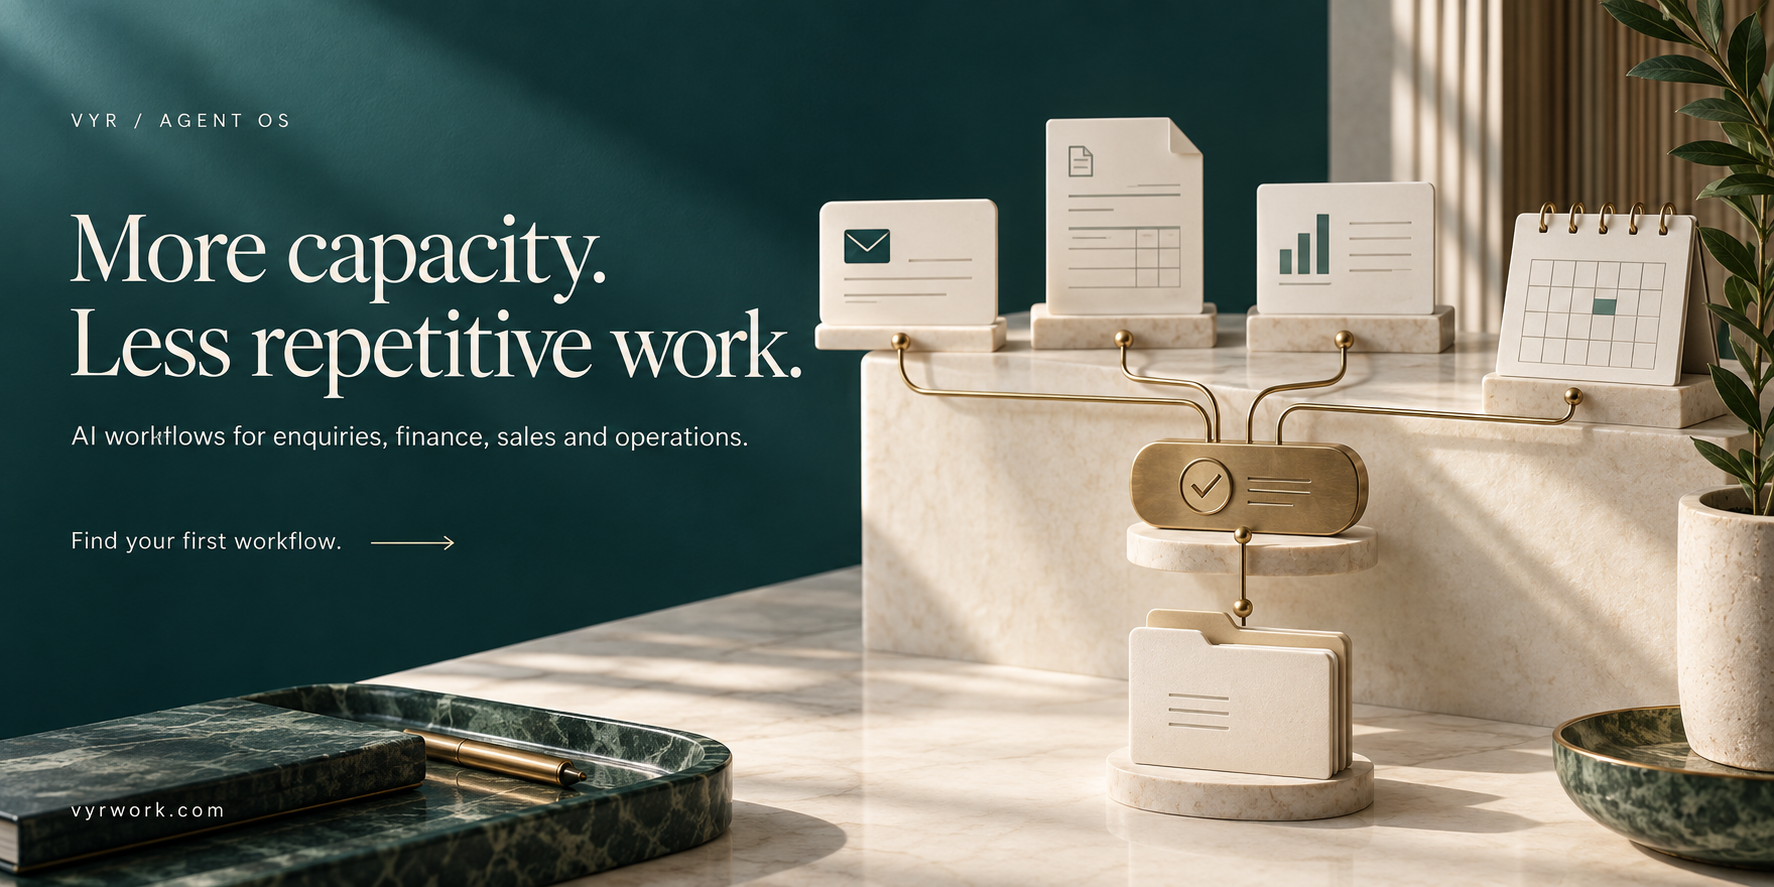
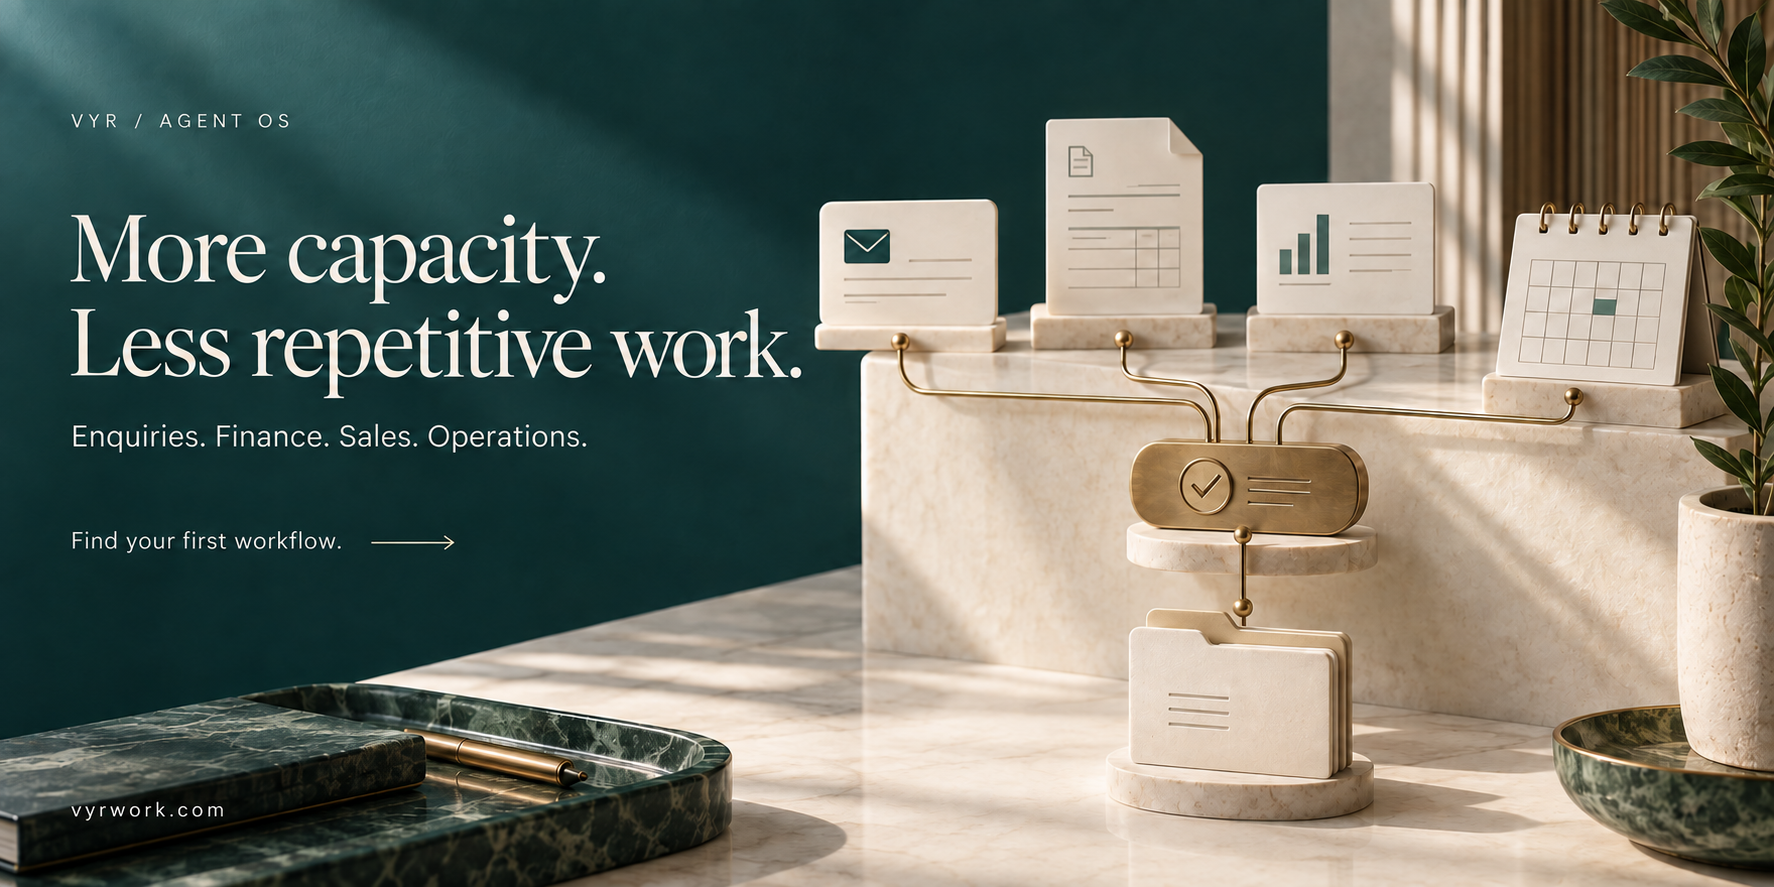
Improve showcase image loading and clarify staffing capacity

diff --git a/README.md b/README.md
@@ -1,4 +1,4 @@
-<p align="center"><a href="https://vyrwork.com/contact?utm_source=github&utm_medium=referral&utm_campaign=agent_os_workflows&utm_content=hero"><img src="assets/vyr-customer-hero.png" alt="VYR Agent OS: more capacity, less repetitive work. AI workflows for enquiries, finance, sales and operations. Find your first workflow at vyrwork.com." width="100%"></a></p>
+<p align="center"><a href="https://vyrwork.com/contact?utm_source=github&utm_medium=referral&utm_campaign=agent_os_workflows&utm_content=hero"><img src="assets/vyr-customer-hero.jpg" alt="VYR Agent OS: more capacity, less repetitive work. AI workflows for enquiries, finance, sales and operations. Find your first workflow at vyrwork.com." width="100%"></a></p>
 
 # AI workflows for the work your team keeps repeating
 
@@ -30,7 +30,7 @@ Whether this reduces employee headcount depends on whole-role responsibilities a
 | Booking enquiries | 80 | 0.50 FTE | S$950 |
 | Routine support | 160 | 1.00 FTE | S$2,050 |
 
-The examples subtract human review time and assumed running costs. FTE uses 160 hours/month and does not mean a complete role can be removed. [See every input, annual ROI, payback and the zero-payroll-savings case →](ROI.md)
+The examples subtract human review time and assumed running costs. FTE means **full-time equivalent**, using 160 hours/month; it does not mean a complete role can be removed. [See every input, annual ROI, payback and the zero-payroll-savings case →](ROI.md)
 
 **[Ask VYR to assess your workflow's business case →](https://vyrwork.com/contact?utm_source=github&utm_medium=referral&utm_campaign=agent_os_workflows&utm_content=readme_roi)**
 
@@ -38,9 +38,9 @@ The examples subtract human review time and assumed running costs. FTE uses 160 
 
 <table>
 <tr>
-<td width="33%"><a href="docs/workflows/ai-receptionist.md"><img src="assets/ai-receptionist.png" alt="AI Receptionist demo: an enquiry moves through knowledge and sample availability checks to a sample booking or staff handoff." width="100%"></a><br><strong>AI Receptionist</strong><br>Demo · sample data<br><a href="docs/workflows/ai-receptionist.md">Explore booking enquiries →</a></td>
-<td width="33%"><a href="docs/workflows/invoice-processing.md"><img src="assets/invoice-processing.png" alt="Invoice Processing blueprint: capture, compare invoice with PO and receipt, finance review, and approved accounting draft." width="100%"></a><br><strong>Invoice Processing</strong><br>Built for you · not deployed<br><a href="docs/workflows/invoice-processing.md">Explore invoice administration →</a></td>
-<td width="33%"><a href="docs/workflows/lead-generation.md"><img src="assets/prospect-research.png" alt="Live prospect research within VYR: target brief, public research, quality checks, sales review and a reviewed CSV. No outreach is sent." width="100%"></a><br><strong>Prospect Research</strong><br>Live · VYR's own operations<br><a href="docs/workflows/lead-generation.md">Explore sales research →</a></td>
+<td width="33%"><a href="docs/workflows/ai-receptionist.md"><img src="assets/ai-receptionist.jpg" alt="AI Receptionist demo: an enquiry moves through knowledge and sample availability checks to a sample booking or staff handoff." width="100%"></a><br><strong>AI Receptionist</strong><br>Demo · sample data<br><a href="docs/workflows/ai-receptionist.md">Explore booking enquiries →</a></td>
+<td width="33%"><a href="docs/workflows/invoice-processing.md"><img src="assets/invoice-processing.jpg" alt="Invoice Processing blueprint: capture, compare invoice with PO and receipt, finance review, and approved accounting draft." width="100%"></a><br><strong>Invoice Processing</strong><br>Built for you · not deployed<br><a href="docs/workflows/invoice-processing.md">Explore invoice administration →</a></td>
+<td width="33%"><a href="docs/workflows/lead-generation.md"><img src="assets/prospect-research.jpg" alt="Live prospect research within VYR: target brief, public research, quality checks, sales review and a reviewed CSV. No outreach is sent." width="100%"></a><br><strong>Prospect Research</strong><br>Live · VYR's own operations<br><a href="docs/workflows/lead-generation.md">Explore sales research →</a></td>
 </tr>
 </table>
 

diff --git a/ROI.md b/ROI.md
@@ -4,7 +4,7 @@
 
 [Ask VYR to assess your numbers →](https://vyrwork.com/contact?utm_source=github&utm_medium=referral&utm_campaign=agent_os_workflows&utm_content=roi_top)
 
-![Illustrative invoice scenario: 40 hours released each month, S$1,200 capacity value, 50% converted to avoidable paid cost, S$600 cash benefit less S$225 ongoing cost gives S$375 net. Full assumptions follow.](assets/roi-illustration.png)
+![Illustrative invoice scenario: 40 hours released each month, S$1,200 capacity value, 50% converted to avoidable paid cost, S$600 cash benefit less S$225 ongoing cost gives S$375 net. Full assumptions follow.](assets/roi-illustration.jpg)
 
 ## A 40-hour opportunity
 
@@ -16,7 +16,7 @@ At an assumed **S$30 per fully loaded hour**, that is **S$1,200 of monthly capac
 
 ## Three illustrative scenarios
 
-Each column is a separate hypothetical **single-workflow** project. Figures are SGD; review time already accounts for human oversight.
+Each column is a separate hypothetical **single-workflow** project. Figures are SGD; review time already accounts for human oversight. FTE means **full-time equivalent**, using an assumed 160 staff-hours per month.
 
 | Assumption or result | Invoice administration | Booking enquiries | Routine support |
 |---|---:|---:|---:|

diff --git a/CHANGELOG.md b/CHANGELOG.md
@@ -8,5 +8,6 @@
 - Retain all 14 workflow examples with their current live, demo or built-to-order status.
 - Add five customer-facing illustrations and clear savings, staffing-capacity, payback and annual ROI scenarios.
 - Distinguish capacity gained from actual paid-cost reductions, with all financial assumptions visible.
+- Use lighter image display copies while preserving full PNG originals.
 
 Current service information: [VYR Agent OS](https://vyrwork.com/agent-os).

diff --git a/docs/workflows/lead-generation.md b/docs/workflows/lead-generation.md
@@ -2,7 +2,7 @@
 
 # Lead Generation
 
-![Lead Generation: a customer-facing workflow illustration with the service status and human decision visible.](../../assets/prospect-research.png)
+![Lead Generation: a customer-facing workflow illustration with the service status and human decision visible.](../../assets/prospect-research.jpg)
 
 Illustrated service flow; company names and cards in the artwork are fictional.
 

diff --git a/docs/workflows/invoice-processing.md b/docs/workflows/invoice-processing.md
@@ -2,7 +2,7 @@
 
 # Invoice Processing
 
-![Invoice Processing: a customer-facing workflow illustration with the service status and human decision visible.](../../assets/invoice-processing.png)
+![Invoice Processing: a customer-facing workflow illustration with the service status and human decision visible.](../../assets/invoice-processing.jpg)
 
 ## When invoices arrive faster than finance can reconcile them
 

diff --git a/docs/workflows/ai-receptionist.md b/docs/workflows/ai-receptionist.md
@@ -2,7 +2,7 @@
 
 # AI Receptionist
 
-![AI Receptionist: a customer-facing workflow illustration with the service status and human decision visible.](../../assets/ai-receptionist.png)
+![AI Receptionist: a customer-facing workflow illustration with the service status and human decision visible.](../../assets/ai-receptionist.jpg)
 
 ## When booking enquiries keep interrupting your front desk
 
